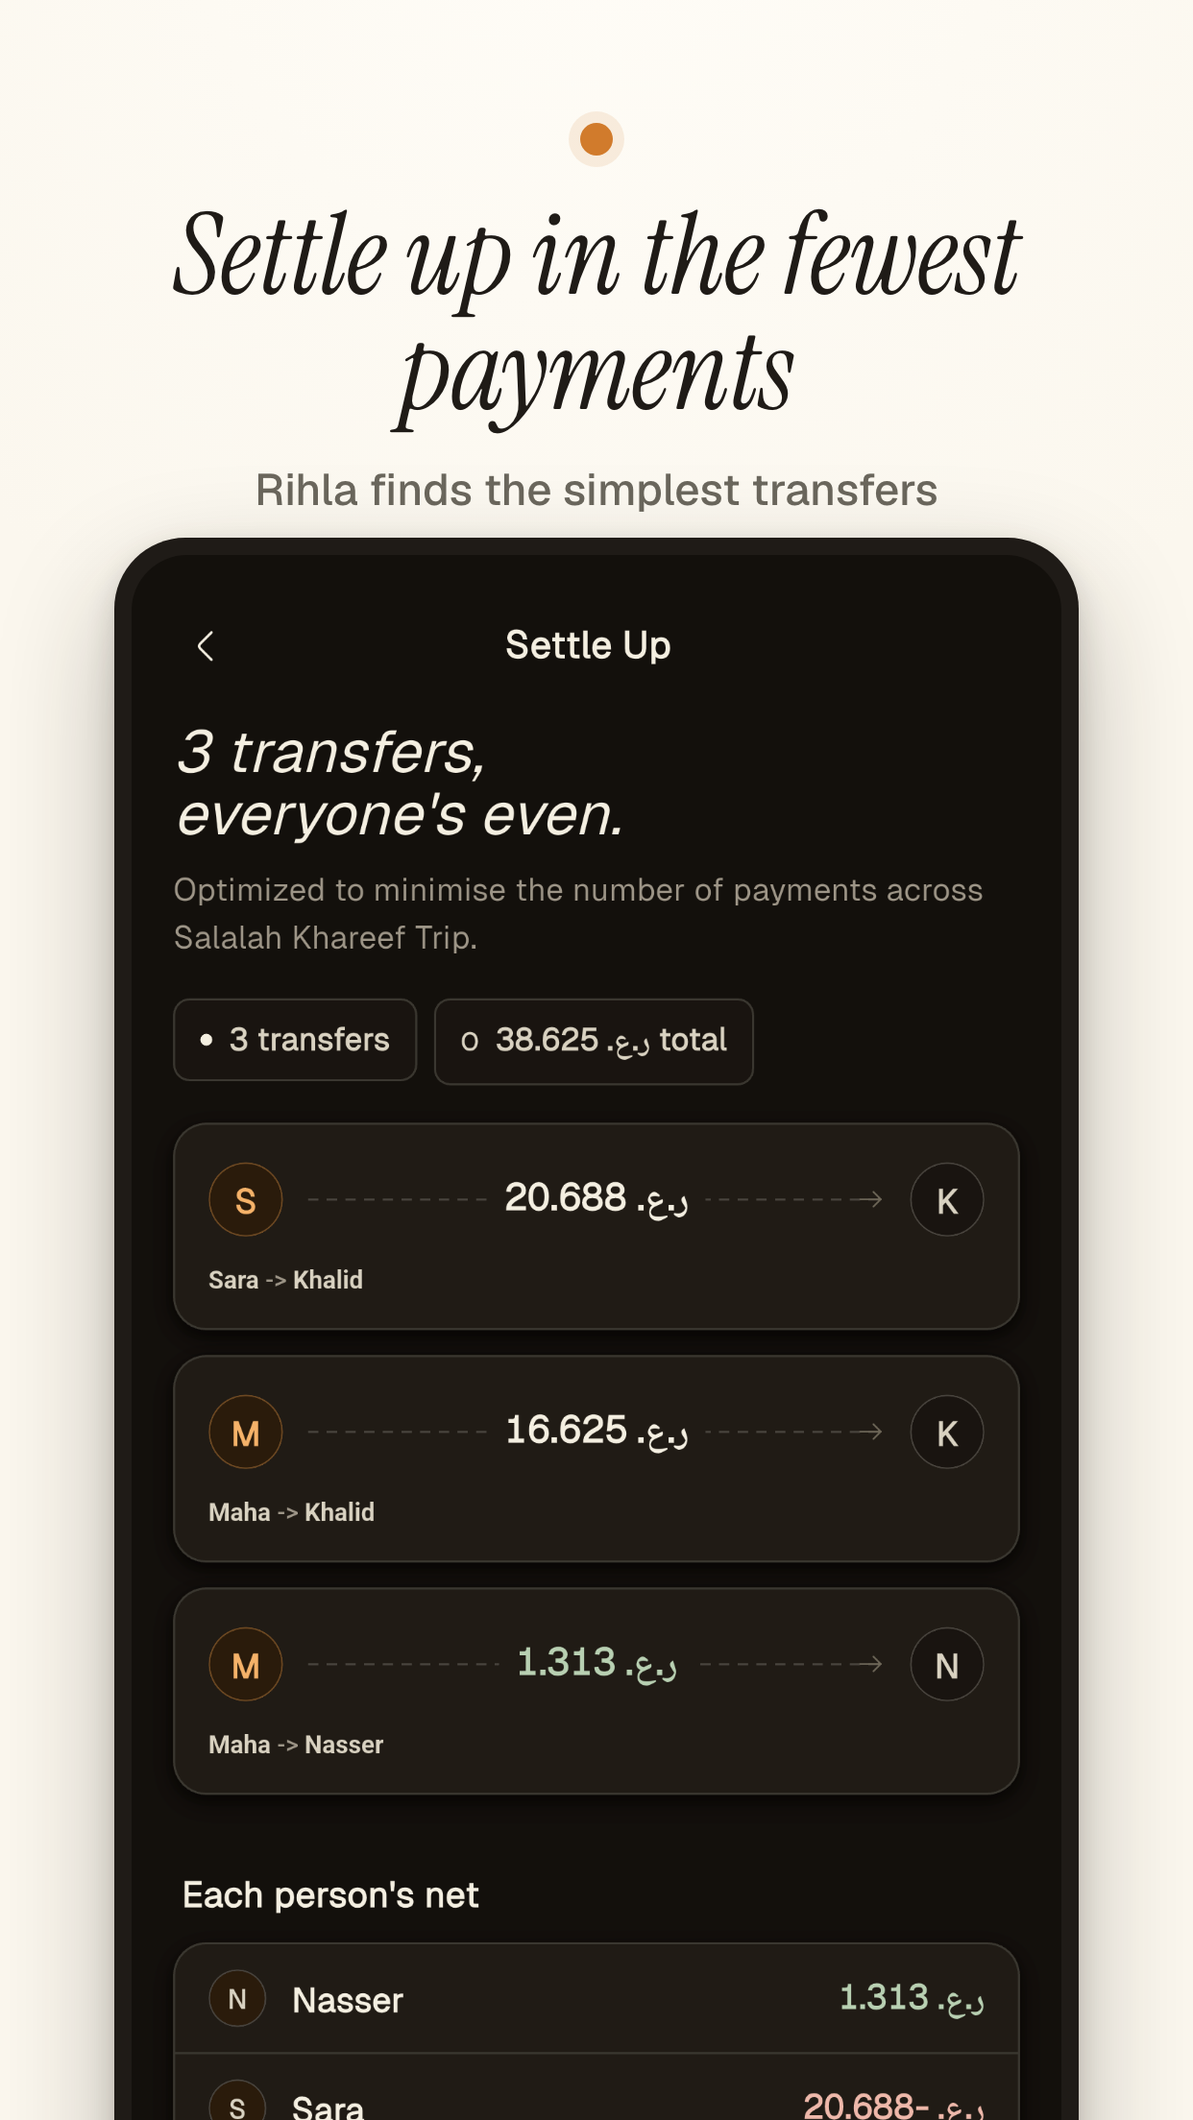
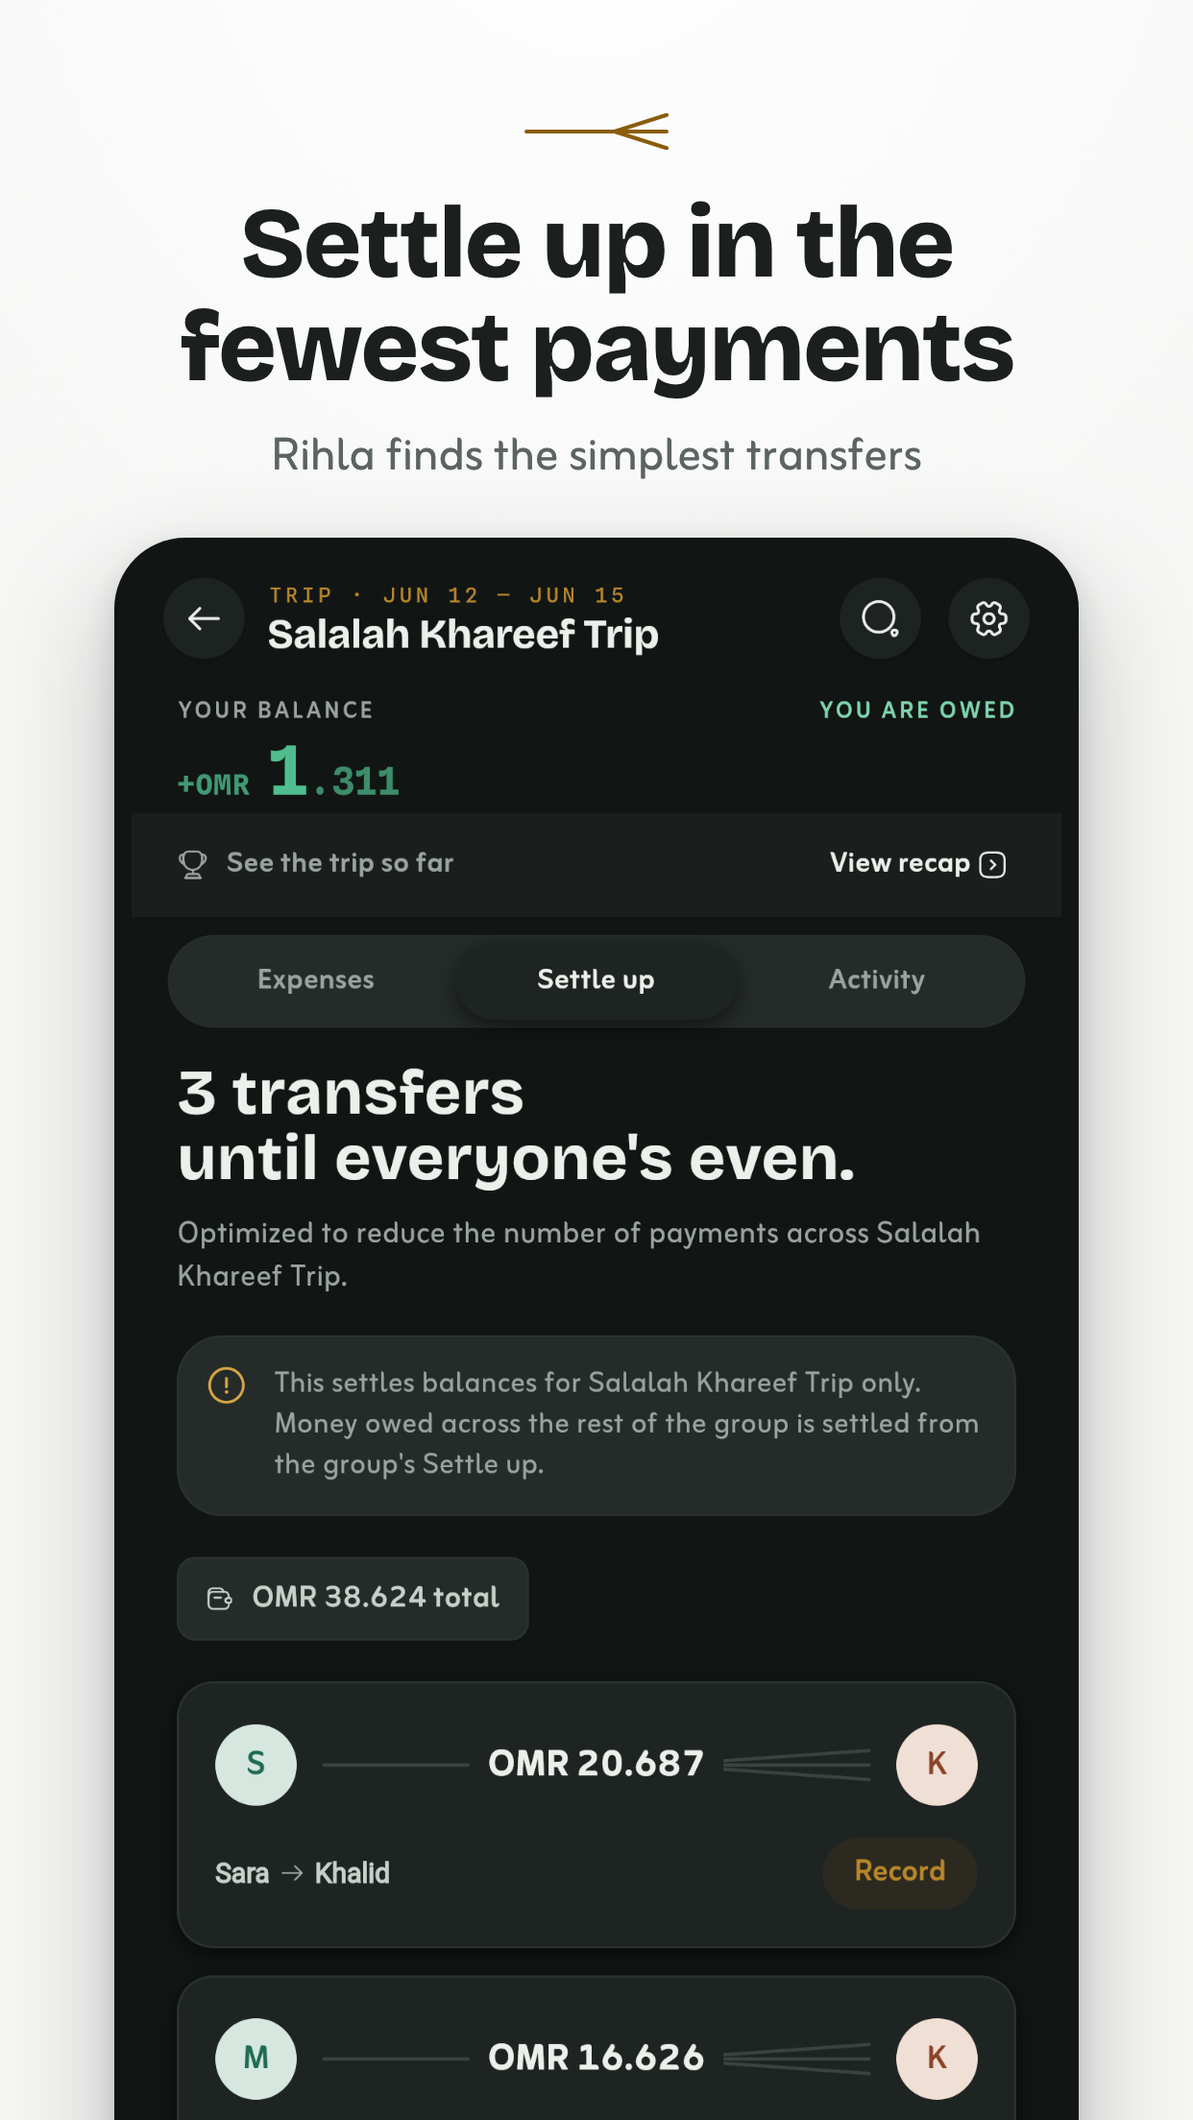
chore(store): re-set Play listing assets in Falaj — captions, frames, feature graphic, AR-native shots
The listing still sold the retired travel-journal identity (cream canvas,
saffron accents, italic Instrument Serif captions) around pre-Falaj app
captures; gen.py also silently fell back to system fonts because the
Falaj font swap deleted the Instrument Serif/Geist assets it referenced.

- gen.py: full Falaj re-set — plaster #F6F7F5 canvas, ink #1B1F1E, brass
  #8A5D0D, Bricolage Grotesque 800 upright EN captions (no italics),
  Zain for subs and ALL Arabic sentences, falaj-fork caption device
  (FalajForkPainter geometry, RTL-mirrored), kohl #111514 device frame.
- Feature graphic: upright Bricolage wordmark + brass fork underscore +
  re-hued route-mark motif (matches the #935 icon decision).
- raw-screens/ restructured to per-locale en/ + ar/ sets, captured fresh
  from the Falaj dark UI (settle-up shows the #958 upright headline).
  The AR set is captured from the app running in Arabic — the June
  "Arabic captions over English-UI phones" fallback is retired.
- Old pre-Falaj raws removed; README updated with the capture rig flow.
- ASO copy untouched (keyword set from #578).

Publish via `bundle exec fastlane android listing` (with the #961 icon).

diff --git a/docs/design/store-assets/gen.py b/docs/design/store-assets/gen.py
@@ -3,19 +3,19 @@
 
 On-brand marketing canvases rendered from the raw in-app screenshots in
 raw-screens/ via headless Chrome. Outputs straight into the fastlane metadata
-dir. Brand: cream #FBF7EE + ink #1F1B17 + terracotta #D17B2C; Instrument Serif
-Italic (EN display); Geist UI; platform Arabic sans for AR captions. The app's
-bundled Reem Kufi asset is a wordmark-only subset (#636), so this generator must
-not depend on it for full Arabic sentences.
+dir. Brand: Falaj (docs/DESIGN.md) — plaster #F6F7F5 + ink #1B1F1E + brass
+#8A5D0D; Bricolage Grotesque 800 upright (EN display — Falaj bans italics);
+Zain for subs and ALL Arabic text (bundled, Arabic-native — do NOT use the
+Reem Kufi asset for sentences, it is a wordmark-only subset #636).
 
 Usage:  python3 docs/design/store-assets/gen.py
 Then review the outputs and `fastlane android listing` to publish.
 
-raw-screens/ holds the *source* in-app captures; the PNGs under each locale's
-phoneScreenshots/ are the *composited output*. To re-caption: edit SCREENS and
-re-run. To swap/add a shot, drop a current PNG in raw-screens/ and point its
-SCREENS row at it. Captures must be CURRENT-DESIGN (sage palette, no
-gear/logistics) — old-theme shots have been removed.
+raw-screens/{en,ar}/ hold the *source* in-app captures per locale (dark-theme,
+current design); the PNGs under each locale's phoneScreenshots/ are the
+*composited output*. To re-caption: edit SCREENS and re-run. To swap/add a
+shot, drop a current PNG in raw-screens/<locale>/ and point its SCREENS row
+at it.
 """
 import os, subprocess, shutil
 
@@ -28,94 +28,126 @@ HTMLDIR = "/tmp/rihla-aso-html"
 CHROME = "/Applications/Google Chrome.app/Contents/MacOS/Google Chrome"
 os.makedirs(HTMLDIR, exist_ok=True)
 
-CREAM, INK, TERRA, MUTED = "#FBF7EE", "#1F1B17", "#D17B2C", "#6B675D"
+# Falaj tokens — mirror lib/core/theme/tokens/color_tokens.dart (light + dark).
+PLASTER, INK, BRASS, MUTED = "#F6F7F5", "#1B1F1E", "#8A5D0D", "#5C6462"
+KOHL = "#111514"  # dark scaffold — device frame around dark-theme captures
 
 FONT_FACE = f"""
-@font-face {{ font-family:'Serif'; src:url('file://{FONTS}/InstrumentSerif-Italic.ttf'); }}
-@font-face {{ font-family:'Geist'; src:url('file://{FONTS}/Geist-Variable.ttf'); }}
+@font-face {{ font-family:'Bricolage'; src:url('file://{FONTS}/BricolageGrotesque-800.ttf'); font-weight:800; }}
+@font-face {{ font-family:'Zain'; src:url('file://{FONTS}/Zain-400.ttf'); font-weight:400; }}
+@font-face {{ font-family:'Zain'; src:url('file://{FONTS}/Zain-700.ttf'); font-weight:700; }}
+@font-face {{ font-family:'Zain'; src:url('file://{FONTS}/Zain-800.ttf'); font-weight:800; }}
 """
 
-# Per row: raw source in raw-screens/, then (headline, sub) per locale. Same shot, both locales.
+
+def fork_svg(width, height, color, rtl=False):
+    """The falaj fork brand device (FalajForkPainter geometry): a main channel
+    running 2.5u of 4u, then 3 round-cap rivulets fanning to the trailing
+    edge, spread ±0.46h, stroke 0.11h. Mirrored for RTL."""
+    w, h = 400.0, 100.0
+    cy, sp, sw = h / 2, h * 0.46, h * 0.11
+    node = w / 4.0 * 2.5
+    flip = f' transform="translate({w},0) scale(-1,1)"' if rtl else ""
+    return (
+        f'<svg width="{width}" height="{height}" viewBox="0 0 {w:.0f} {h:.0f}" '
+        f'fill="none" xmlns="http://www.w3.org/2000/svg"><g{flip} '
+        f'stroke="{color}" stroke-width="{sw}" stroke-linecap="round">'
+        f'<line x1="{sw / 2}" y1="{cy}" x2="{node}" y2="{cy}"/>'
+        f'<line x1="{node}" y1="{cy}" x2="{w - sw / 2}" y2="{cy - sp}"/>'
+        f'<line x1="{node}" y1="{cy}" x2="{w - sw / 2}" y2="{cy}"/>'
+        f'<line x1="{node}" y1="{cy}" x2="{w - sw / 2}" y2="{cy + sp}"/>'
+        f"</g></svg>"
+    )
+
+
+# Per row: raw source filename (same name under raw-screens/en/ and /ar/),
+# then (headline, sub) per locale.
 SCREENS = [
-    ("3_en-US.png",
+    ("settle_up.png",
         ("Settle up in the fewest payments", "Rihla finds the simplest transfers"),
         ("سَوِّ الديون بأقل عدد من الدفعات", "نحسب لك أبسط التحويلات")),
-    ("4_en-US.png",
+    ("ledger.png",
         ("Every expense, and who owes who", "one balance across every trip"),
         ("كل مصروف، ومن يدين لمن", "رصيد واحد عبر كل رحلة")),
-    ("5_en-US.png",
+    ("add_expense.png",
         ("Split evenly, by share, exact or %", "everyone, a few, or just you"),
         ("قسّم بالتساوي أو حصص أو مبلغ أو نسبة", "على الجميع أو البعض أو عليك وحدك")),
-    ("6_en-US.png",
+    ("activity.png",
         ("Follow every payment as it happens", "offline &middot; bilingual &middot; no sign-up"),
         ("تابع كل دفعة فور حدوثها", "دون اتصال · بالعربية · دون تسجيل")),
 ]
 
 LOCALES = {
-    "en-US": dict(suffix="en-US", dir="ltr",
-        hl_font="'Serif',serif", hl_style="font-style:italic", hl_size="118px", hl_lh="1.02",
-        sub_font="'Geist',sans-serif", sub_size="46px"),
-    "ar": dict(suffix="ar", dir="rtl",
-        hl_font="'Geeza Pro','Noto Sans Arabic','Arial',sans-serif",
-        hl_style="font-weight:600", hl_size="100px", hl_lh="1.18",
-        sub_font="'Geeza Pro','Noto Sans Arabic','Arial',sans-serif",
-        sub_size="42px"),
+    "en-US": dict(suffix="en-US", dir="ltr", raw="en",
+        hl_font="'Bricolage',sans-serif", hl_weight="800", hl_size="104px",
+        hl_lh="1.04", hl_ls="-2px",
+        sub_font="'Zain',sans-serif", sub_size="48px"),
+    "ar": dict(suffix="ar", dir="rtl", raw="ar",
+        hl_font="'Zain',sans-serif", hl_weight="800", hl_size="104px",
+        hl_lh="1.14", hl_ls="0",
+        sub_font="'Zain',sans-serif", sub_size="46px"),
 }
+
 
 def shot_css(L):
     return f"""<style>{FONT_FACE}
 *{{margin:0;padding:0;box-sizing:border-box}}
-html,body{{width:1242px;height:2208px;overflow:hidden;background:{CREAM};-webkit-font-smoothing:antialiased}}
+html,body{{width:1242px;height:2208px;overflow:hidden;background:{PLASTER};-webkit-font-smoothing:antialiased}}
 .wrap{{width:1242px;height:2208px;position:relative;
-  background:radial-gradient(120% 80% at 50% -10%, #FFFDF8 0%, {CREAM} 60%)}}
-.cap{{padding:128px 90px 0;text-align:center}}
-.dot{{width:34px;height:34px;border-radius:50%;background:{TERRA};margin:0 auto 44px;
-  box-shadow:0 0 0 12px rgba(209,123,44,.12)}}
-.hl{{font-family:{L['hl_font']};{L['hl_style']};color:{INK};font-size:{L['hl_size']};
-  line-height:{L['hl_lh']};letter-spacing:-.5px}}
-.sub{{font-family:{L['sub_font']};color:{MUTED};font-size:{L['sub_size']};line-height:1.3;
-  margin-top:34px;font-weight:500}}
+  background:radial-gradient(120% 80% at 50% -10%, #FFFFFF 0%, {PLASTER} 62%)}}
+.cap{{padding:118px 90px 0;text-align:center}}
+.fork{{margin:0 auto 40px;width:150px}}
+.hl{{font-family:{L['hl_font']};font-weight:{L['hl_weight']};color:{INK};font-size:{L['hl_size']};
+  line-height:{L['hl_lh']};letter-spacing:{L['hl_ls']}}}
+.sub{{font-family:{L['sub_font']};font-weight:400;color:{MUTED};font-size:{L['sub_size']};line-height:1.3;
+  margin-top:30px}}
 .stage{{position:absolute;left:50%;transform:translateX(-50%);top:560px;width:1004px;
-  background:{INK};padding:18px;border-radius:74px;
-  box-shadow:0 50px 120px rgba(31,27,23,.28), 0 12px 30px rgba(31,27,23,.16)}}
+  background:{KOHL};padding:18px;border-radius:74px;
+  box-shadow:0 50px 120px rgba(27,31,30,.26), 0 12px 30px rgba(27,31,30,.14)}}
 .stage img{{display:block;width:100%;border-radius:58px}}
 </style>"""
 
+
 def shot_html(L, src, hl, sub):
+    fork = fork_svg(150, 38, BRASS, rtl=(L["dir"] == "rtl"))
     return f"""<!doctype html><html dir="{L['dir']}"><head><meta charset="utf-8">{shot_css(L)}</head>
-<body><div class="wrap"><div class="cap" dir="{L['dir']}"><div class="dot"></div>
+<body><div class="wrap"><div class="cap" dir="{L['dir']}"><div class="fork">{fork}</div>
 <div class="hl">{hl}</div><div class="sub">{sub}</div></div>
-<div class="stage"><img src="file://{RAW}/{src}"></div></div></body></html>"""
+<div class="stage"><img src="file://{RAW}/{L['raw']}/{src}"></div></div></body></html>"""
+
 
 FEATURE = f"""<!doctype html><html><head><meta charset="utf-8">
 <style>{FONT_FACE}
 *{{margin:0;padding:0;box-sizing:border-box}}
 html,body{{width:1024px;height:500px;overflow:hidden;
-  background:radial-gradient(130% 120% at 8% 30%, #FFFDF8 0%, {CREAM} 58%, #F4EEDF 100%);
-  font-family:'Geist',sans-serif;-webkit-font-smoothing:antialiased}}
+  background:radial-gradient(130% 120% at 8% 30%, #FFFFFF 0%, {PLASTER} 58%, #ECEEE8 100%);
+  font-family:'Zain',sans-serif;-webkit-font-smoothing:antialiased}}
 .fw{{width:1024px;height:500px;position:relative}}
 .text{{position:absolute;left:90px;top:50%;transform:translateY(-50%)}}
-.brand{{font-family:'Serif',serif;font-style:italic;color:{INK};font-size:168px;line-height:.9;letter-spacing:-2px}}
-.rule{{width:120px;height:9px;background:{TERRA};border-radius:6px;margin:30px 0 26px 6px}}
-.tag{{font-family:'Geist';color:{INK};font-size:48px;font-weight:600;letter-spacing:.2px}}
-.tag2{{font-family:'Geist';color:{MUTED};font-size:33px;font-weight:500;margin-top:12px}}
+.brand{{font-family:'Bricolage',sans-serif;font-weight:800;color:{INK};font-size:148px;
+  line-height:.95;letter-spacing:-4px}}
+.fork{{margin:18px 0 20px 8px}}
+.tag{{color:{INK};font-size:50px;font-weight:700;letter-spacing:.2px}}
+.tag2{{color:{MUTED};font-size:34px;font-weight:400;margin-top:6px}}
 .motif{{position:absolute;right:-40px;top:0;width:520px;height:500px}}
 .disc{{position:absolute;right:150px;top:120px;width:150px;height:150px;border-radius:50%;
-  background:{TERRA};box-shadow:0 18px 50px rgba(209,123,44,.35)}}
+  background:{BRASS};box-shadow:0 18px 50px rgba(138,93,13,.30)}}
 .disc:after{{content:'';position:absolute;left:50%;top:50%;transform:translate(-50%,-50%);
-  width:46px;height:46px;border-radius:50%;background:{CREAM}}}
+  width:46px;height:46px;border-radius:50%;background:#FFFFFF}}
 .disc:before{{content:'';position:absolute;left:50%;top:50%;transform:translate(-50%,-50%);
   width:20px;height:20px;border-radius:50%;background:{INK};z-index:2}}
 .ring{{position:absolute;right:330px;top:300px;width:78px;height:78px;border-radius:50%;
-  background:{INK};box-shadow:0 0 0 12px rgba(31,27,23,.14)}}
+  background:{INK};box-shadow:0 0 0 12px rgba(27,31,30,.12)}}
 .path{{position:absolute;right:205px;top:200px;width:175px;height:140px;
   border-left:9px dotted {INK};transform:rotate(36deg);transform-origin:bottom left;opacity:.85}}
 </style></head><body><div class="fw">
-<div class="text"><div class="brand">Rihla</div><div class="rule"></div>
+<div class="text"><div class="brand">Rihla</div>
+<div class="fork">{fork_svg(190, 48, BRASS)}</div>
 <div class="tag">Split group expenses</div>
 <div class="tag2">Who owes who &middot; settle up &middot; offline</div></div>
 <div class="motif"><div class="disc"></div><div class="ring"></div><div class="path"></div></div>
 </div></body></html>"""
+
 
 def render(htmlstr, outp, w, h):
     p = f"{HTMLDIR}/{os.path.basename(outp)}.html"
@@ -127,16 +159,18 @@ def render(htmlstr, outp, w, h):
         check=True, stdout=subprocess.DEVNULL, stderr=subprocess.DEVNULL)
     print("rendered", outp.replace(REPO + "/", ""))
 
-# feature graphic (EN images dir; Play falls back to it for AR)
-render(FEATURE, f"{EN_IMG}/featureGraphic.png", 1024, 500)
 
-# screenshots, both locales
-for loc, L in LOCALES.items():
-    out_dir = f"{META}/{loc}/images/phoneScreenshots"
-    if os.path.isdir(out_dir):
-        shutil.rmtree(out_dir)
-    os.makedirs(out_dir)
-    for i, (src, en, ar) in enumerate(SCREENS, 1):
-        hl, sub = (en if loc == "en-US" else ar)
-        render(shot_html(L, src, hl, sub), f"{out_dir}/{i}_{L['suffix']}.png", 1242, 2208)
-print("DONE")
+if __name__ == "__main__":
+    # feature graphic (EN images dir; Play falls back to it for AR)
+    render(FEATURE, f"{EN_IMG}/featureGraphic.png", 1024, 500)
+
+    # screenshots, both locales — each locale composites its own raw captures
+    for loc, L in LOCALES.items():
+        out_dir = f"{META}/{loc}/images/phoneScreenshots"
+        if os.path.isdir(out_dir):
+            shutil.rmtree(out_dir)
+        os.makedirs(out_dir)
+        for i, (src, en, ar) in enumerate(SCREENS, 1):
+            hl, sub = (en if loc == "en-US" else ar)
+            render(shot_html(L, src, hl, sub), f"{out_dir}/{i}_{L['suffix']}.png", 1242, 2208)
+    print("DONE")

diff --git a/docs/design/store-assets/README.md b/docs/design/store-assets/README.md
@@ -2,15 +2,19 @@
 
 On-brand **feature graphic** + **captioned phone screenshots** for the Play
 listing, rendered from HTML via headless Chrome so they stay in sync with the
-design system (`lib/core/theme/tokens/`).
+design system (`lib/core/theme/tokens/`). Brand: **Falaj** (`docs/DESIGN.md`)
+— plaster `#F6F7F5` + ink `#1B1F1E` + brass `#8A5D0D`; Bricolage Grotesque 800
+upright for EN display (Falaj bans italics), Zain for subs and all Arabic
+sentences, the falaj fork as the caption device.
 
 ## Files
 
 - `gen.py` — the generator. Renders the feature graphic + 4 captioned
   screenshots **per locale (EN + AR)** straight into `fastlane/metadata/android/`.
-- `raw-screens/` — the **raw in-app captures** that feed the composites.
-  These are the *source*; the PNGs in `fastlane/.../phoneScreenshots/` are the
-  *output* (caption banner + device frame around these).
+- `raw-screens/en/`, `raw-screens/ar/` — the **raw in-app captures** per
+  locale (dark theme, current design). These are the *source*; the PNGs in
+  `fastlane/.../phoneScreenshots/` are the *output* (caption banner + device
+  frame around these). Same filenames in both locale dirs.
 
 ## Regenerate
 
@@ -19,30 +23,42 @@ python3 docs/design/store-assets/gen.py
 ```
 
 Requires Google Chrome at the default macOS path and the bundled fonts in
-`assets/fonts/`. Outputs:
+`assets/fonts/` (Bricolage Grotesque 800, Zain 400/700/800). Outputs:
 
 - `fastlane/metadata/android/en-US/images/featureGraphic.png` — 1024×500
 - `fastlane/metadata/android/en-US/images/phoneScreenshots/{1..4}_en-US.png` — 1242×2208
 - `fastlane/metadata/android/ar/images/phoneScreenshots/{1..4}_ar.png` — 1242×2208
-  (RTL captions rendered with platform Arabic fonts; the bundled Reem Kufi asset
-  is a wordmark-only subset)
 
-## Open items (need a fresh capture from the current app)
+Arabic captions AND the Arabic in-app UI are both real since the 2026-07-06
+Falaj refresh (the AR raw set is captured from the app running in Arabic —
+the old "Arabic captions over English-UI phones" fallback is retired). Do
+NOT set Arabic sentences in Reem Kufi — the bundled asset is a wordmark-only
+subset (#636); Zain is the Arabic text face.
 
-1. **Net-balance "who owes who" hero is missing.** The original slot-1 shot was
-   an *old-theme* capture (bright emerald + "11% ring" Trip Settlement layout) —
-   removed. To re-add it, capture the current group/settlement balance screen
-   (sage palette) and drop it in `raw-screens/`, then add a `SCREENS` row.
-2. **AR screenshots show English app UI.** The `raw-screens/` captures are
-   English-locale. For a fully-localized AR listing, re-capture the app running
-   in Arabic (RTL) and add an `ar/` raw set. Until then AR gets Arabic *captions*
-   over English-UI phones — better than the English-caption fallback, not ideal.
+## Capture a new raw set
+
+Boot the Firebase emulators + an Android emulator, install a debug build in
+emulator mode, seed the demo group, then screencap:
+
+```bash
+firebase emulators:start --only auth,firestore --project rihla-safar
+flutter run --dart-define-from-file=config.qa.json -d <device>
+# grab the anon uid from http://127.0.0.1:9099/emulator/v1/projects/rihla-safar/accounts
+cd functions && FIRESTORE_EMULATOR_HOST=127.0.0.1:8080 \
+  FIREBASE_AUTH_EMULATOR_HOST=127.0.0.1:9099 GCLOUD_PROJECT=rihla-safar \
+  node ../tool/seed_demo.js <uid> en          # then `ar` for the Arabic pass
+adb exec-out screencap -p > raw.png           # crop the status bar before use
+```
+
+Set the device to dark theme; switch the device locale to Arabic for the AR
+set. Crop the status bar off captures (the composite's device frame supplies
+the bezel).
 
 ## Edit captions / swap a shot
 
 - **Caption copy:** edit the `SCREENS` list in `gen.py` and re-run.
-- **New raw shot:** drop a PNG in `raw-screens/`, point its `SCREENS` row at
-  it, re-run.
+- **New raw shot:** drop a PNG (same name) in `raw-screens/en/` and
+  `raw-screens/ar/`, point a `SCREENS` row at it, re-run.
 
 ## Publish
 
@@ -53,10 +69,12 @@ bundle exec fastlane android listing   # needs Homebrew Ruby 3.x
 ## History / guardrails
 
 - The feature graphic was previously the **wrong brand** ("Safar — Split Travel
-  Expenses"); replaced with the Rihla wordmark + icon motif (2026-06-18).
+  Expenses"); replaced 2026-06-18, re-set in Falaj 2026-07-06.
 - The old screenshot #1 advertised **Vault / Gear / Logistics** — features
   stripped in Phase 39. Don't reintroduce stale module screenshots; the
-  `raw-screens/` set is ledger-only and current.
+  `raw-screens/` sets are ledger-only and current.
 - Multi-currency copy is **truthful as of #261/#382** (per-group currency
   shipped). It was once removed as a false claim (#141) when it was vaporware —
   it is real now, so the listing mentions it again.
+- Captions/copy were keyword-optimized in #578 — the Falaj refresh changed
+  visuals only, not the ASO copy.
